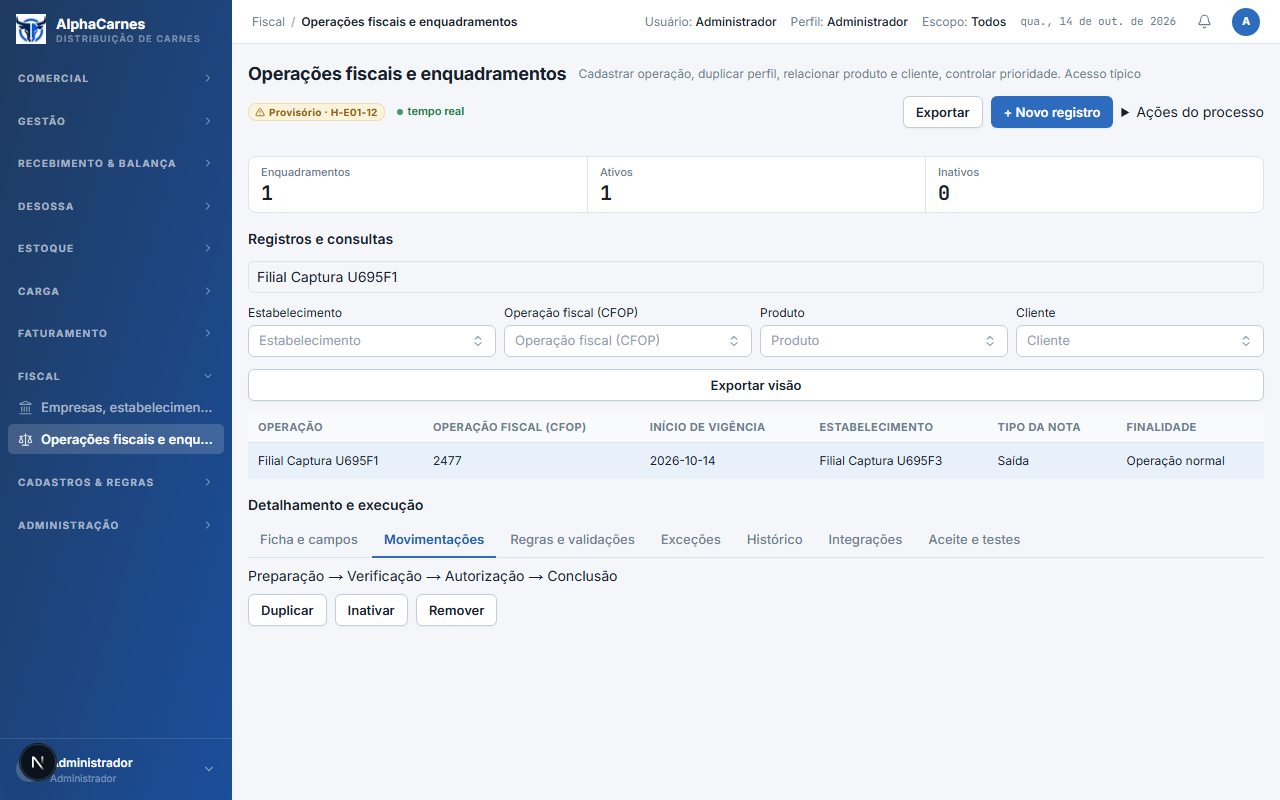
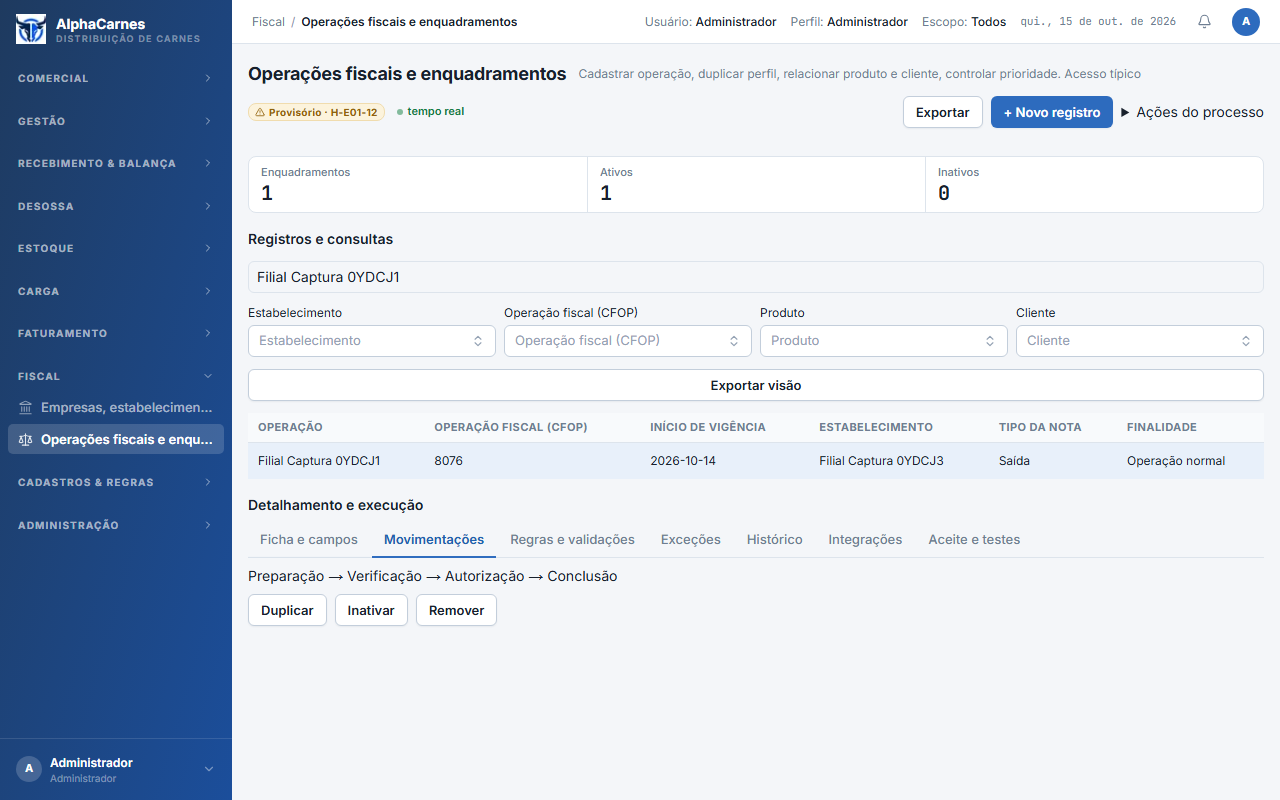
docs(e01-t02): regera evidências sem o indicador do next dev e deriva o banco do E2E
### Descrição Detalhada:
O spec de captura injeta CSS que oculta nextjs-portal antes de cada screenshot e os app-*.png foram regerados. O seed SQL do E2E deriva o nome do banco de DATABASE_URL e recusa banco sem sufixo _test, _e2e ou _e01_tNN, em vez de fixar alphacarnes_e01_t02.

### Motivo da Mudança:
Menor M6 da revisão: PNG mostrava o indicador do next dev e o helper dependia de um banco fixo.

### Impacto:
Somente evidências e helper de E2E; produto inalterado.

diff --git a/app/frontend/e2e/helpers/e01-t02-seed.ts b/app/frontend/e2e/helpers/e01-t02-seed.ts
@@ -181,12 +181,23 @@ export async function criarEnquadramento(
   };
 }
 
+/** Nome do banco vindo de DATABASE_URL; recusa banco sem sufixo de teste. */
+export function bancoDeTeste(): string {
+  const url = process.env.DATABASE_URL;
+  if (!url) throw new Error('DATABASE_URL é obrigatório para o seed SQL do E2E');
+  const nome = decodeURIComponent(new URL(url).pathname.replace(/^\//, ''));
+  if (!/^[a-z0-9_]+$/.test(nome) || !/_(test|e2e|e01_t\d+)$/.test(nome)) {
+    throw new Error(`Banco "${nome}" sem sufixo de teste (_test, _e2e ou _e01_tNN): seed SQL recusado`);
+  }
+  return nome;
+}
+
 /** Libera 5102 e 02013000 para a jornada criar os códigos pelo diálogo. */
 export function liberarCodigosDaJornada(): void {
   const sql = `UPDATE cfops SET deleted_at = now() WHERE codigo = '5102' AND deleted_at IS NULL; UPDATE ncms SET deleted_at = now() WHERE codigo = '02013000' AND deleted_at IS NULL;`;
   execFileSync('docker', [
     'exec', 'alphacarnes-postgres-1',
-    'psql', '-U', 'alphacarnes', '-d', 'alphacarnes_e01_t02',
+    'psql', '-U', 'alphacarnes', '-d', bancoDeTeste(),
     '-v', 'ON_ERROR_STOP=1', '-c', sql,
   ], { stdio: 'pipe' });
 }
@@ -203,7 +214,7 @@ export function inserirEmpate(enquadramentoId: string): string {
   const sql = `INSERT INTO enquadramentos_fiscais (codigo, empresa_id, estabelecimento_id, operacao_id, tp_nf, fin_nfe, cfop_id, abrangencia, tipo_produto, produto_id, ncm_id, cest, cliente_id, vigencia_inicio, vigencia_fim, prioridade, situacao, criado_por_id, atualizado_por_id) SELECT '${codigo}', empresa_id, estabelecimento_id, operacao_id, tp_nf, fin_nfe, cfop_id, abrangencia, tipo_produto, produto_id, ncm_id, cest, cliente_id, vigencia_inicio, vigencia_fim, 99, situacao, criado_por_id, atualizado_por_id FROM enquadramentos_fiscais WHERE id = '${enquadramentoId}'`;
   execFileSync('docker', [
     'exec', 'alphacarnes-postgres-1',
-    'psql', '-U', 'alphacarnes', '-d', 'alphacarnes_e01_t02',
+    'psql', '-U', 'alphacarnes', '-d', bancoDeTeste(),
     '-v', 'ON_ERROR_STOP=1', '-c', sql,
   ], { stdio: 'pipe' });
   return codigo;

diff --git a/app/frontend/e2e/capture-e01-t02-evidencias.spec.ts b/app/frontend/e2e/capture-e01-t02-evidencias.spec.ts
@@ -78,6 +78,8 @@ const ABAS_APP: Array<{ aba: string; arquivo: string; chave: string }> = [
 async function capturar(page: Page, arquivo: string, chave: Locator): Promise<void> {
   await expect(chave, `elemento-chave ausente antes de ${arquivo}`).toBeVisible({ timeout: 30_000 });
   await chave.scrollIntoViewIfNeeded();
+  // Oculta o indicador do `next dev` (portal "N") sem alterar o produto.
+  await page.addStyleTag({ content: 'nextjs-portal { display: none !important; }' });
   await page.screenshot({ path: path.join(OUT_DIR, arquivo), fullPage: true });
 }
 
